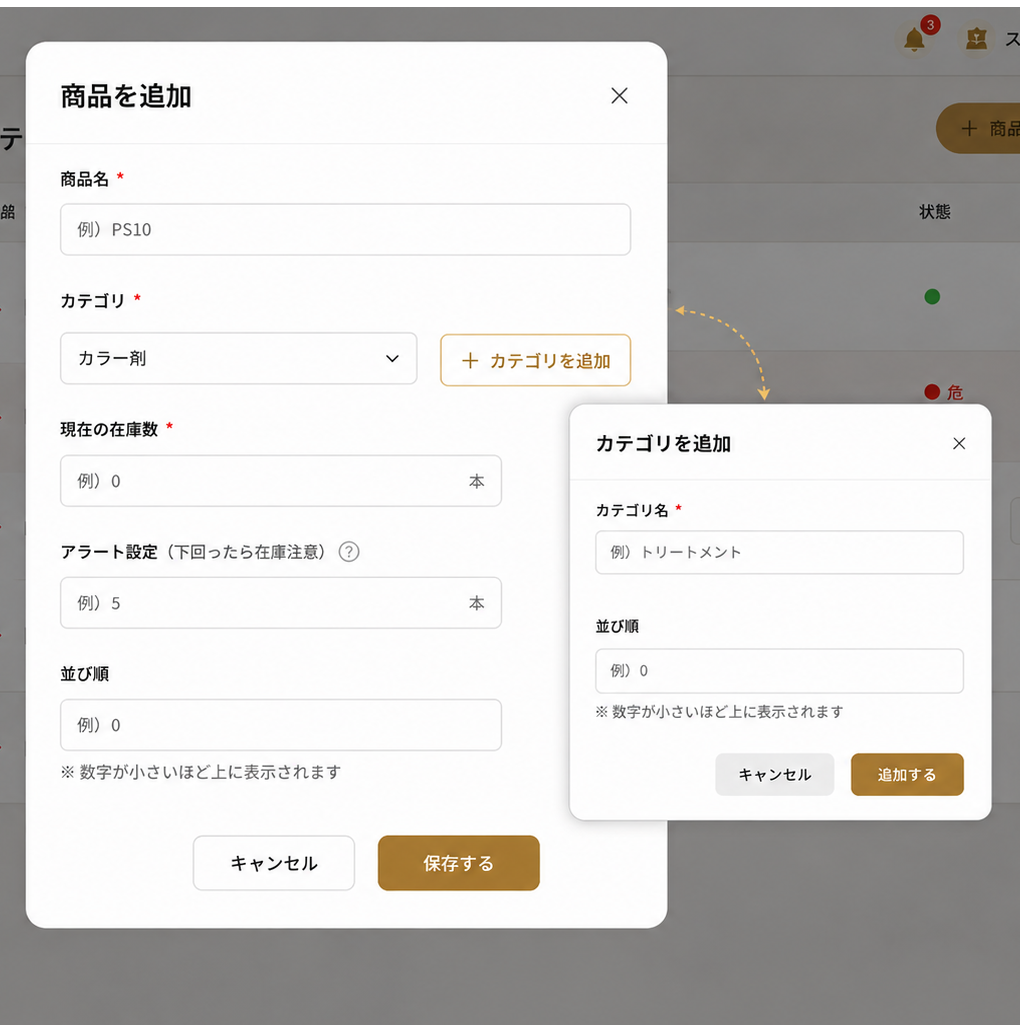
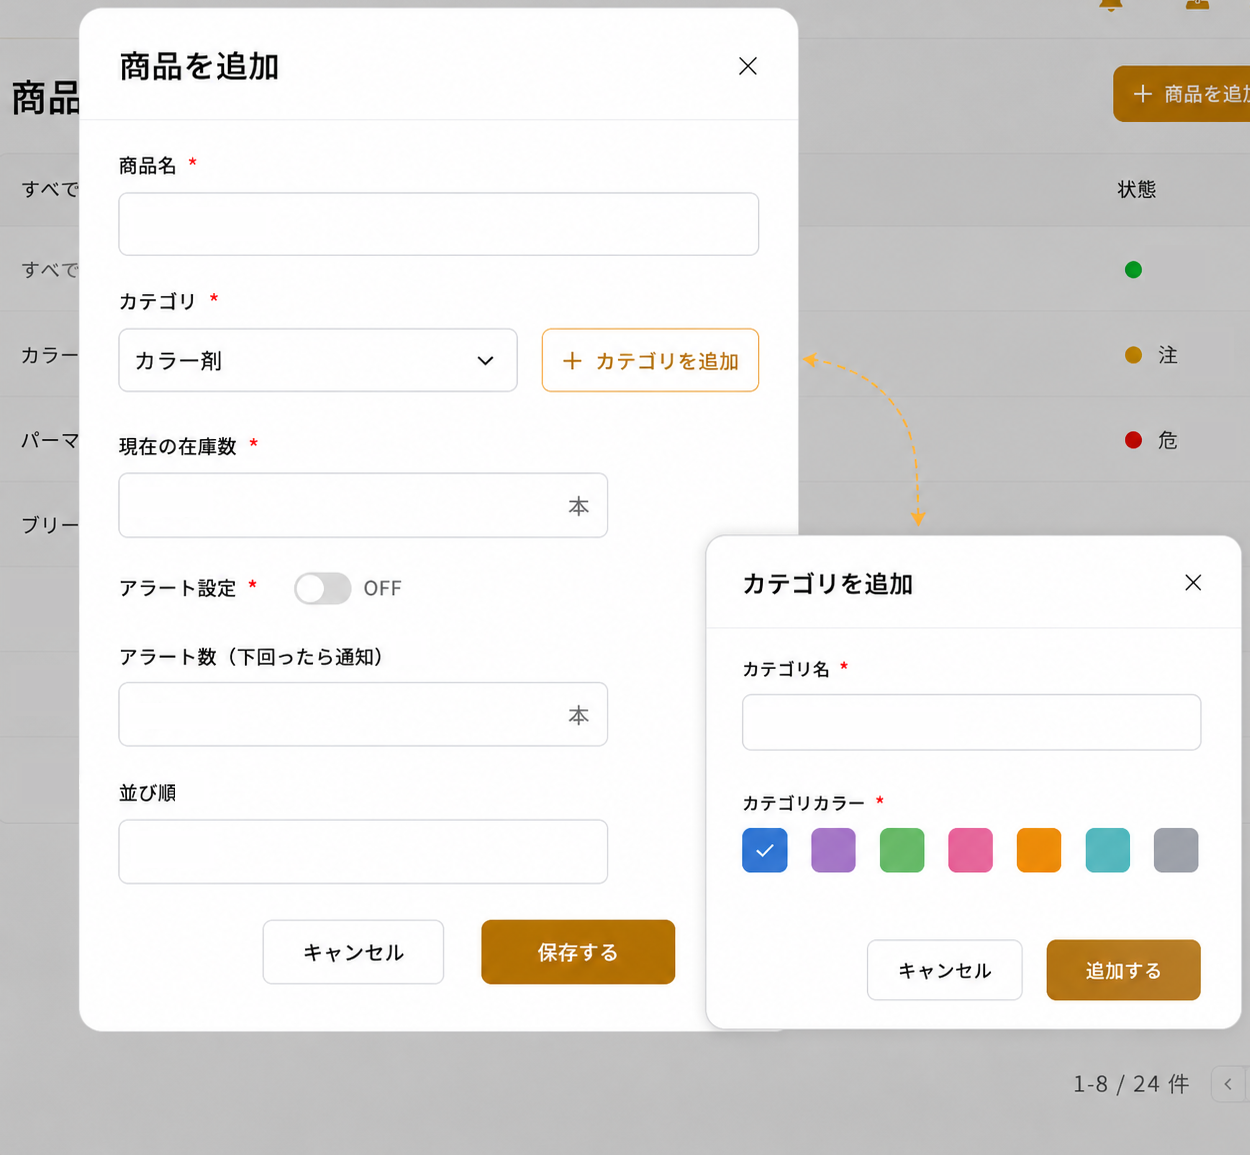
商品の並び順機能、カテゴリカラーの追加

diff --git a/frontend/src/components/AddItemModal.jsx b/frontend/src/components/AddItemModal.jsx
@@ -6,16 +6,17 @@ function AddItemModal({ onClose, onItemCreated }) {
   const [name, setName] = useState("");
   const [category, setCategory] = useState("");
   const [categories, setCategories] = useState([]);
-  const [currentStock, setCurrentStock] = useState(0);
-  const [minStock, setMinStock] = useState(0);
+  const [currentStock, setCurrentStock] = useState("");
+  const [minStock, setMinStock] = useState("");
   const [alertEnabled, setAlertEnabled] = useState(true);
   const [error, setError] = useState("");
   const [isCategoryModalOpen, setIsCategoryModalOpen] = useState(false);
+  const [sortOrder, setSortOrder] = useState("");
 
   const handleSubmit = async () => {
     setError("");
 
-    if(!name.trim()){
+    if (!name.trim()) {
       setError("商品名を入力してください");
       return;
     }
@@ -30,6 +31,7 @@ function AddItemModal({ onClose, onItemCreated }) {
         current_stock: currentStock,
         minStock,
         alertEnabled,
+        sortOrder: sortOrder,
       };
 
       await createItem(item);
@@ -59,7 +61,7 @@ function AddItemModal({ onClose, onItemCreated }) {
         </div>
         {error && <p className="form-error">{error}</p>}
         <label>
-          商品名
+          商品名<span> *</span>
           <input
             type="text"
             value={name}
@@ -67,12 +69,16 @@ function AddItemModal({ onClose, onItemCreated }) {
           />
         </label>
         <div className="category-add">
-          <label>カテゴリ</label>
+          <label>カテゴリ<span> *</span></label>
           <button type="button" onClick={() => setIsCategoryModalOpen(true)}>
             ＋追加
           </button>
         </div>
-        <select value={category} onChange={(e) => setCategory(e.target.value)}>
+        <select
+          className="category-select"
+          value={category}
+          onChange={(e) => setCategory(e.target.value)}
+        >
           <option value="">選択してください</option>
           {categories.map((category) => (
             <option key={category.id} value={category.id}>
@@ -82,9 +88,10 @@ function AddItemModal({ onClose, onItemCreated }) {
         </select>
 
         <label>
-          現在の在庫数
+          現在の在庫数<span> *</span>
           <input
             type="number"
+            min="0"
             value={currentStock}
             onChange={(e) => setCurrentStock(Number(e.target.value))}
           />
@@ -100,12 +107,24 @@ function AddItemModal({ onClose, onItemCreated }) {
         </label>
 
         <label>
-          アラート数
+          アラート数 (下回ったら通知)
           <input
             type="number"
+            min="0"
             value={minStock}
             onChange={(e) => setMinStock(Number(e.target.value))}
           />
+        </label>
+
+        <label>
+          並び順
+          <input
+            type="number"
+            min="0"
+            value={sortOrder}
+            onChange={(e) => setSortOrder(Number(e.target.value))}
+          />
+          <p>※ 数字が小さいほど上に表示されます</p>
         </label>
 
         <button className="save-button" onClick={handleSubmit}>

diff --git a/frontend/src/App.css b/frontend/src/App.css
@@ -291,7 +291,6 @@ body {
 .item-category {
   display: inline-block;
   padding: 6px 12px;
-  background: #f0ece2;
   border-radius: 8px;
   font-size: 12px;
 }
@@ -362,25 +361,25 @@ body {
 .item-delete:hover {
   background: #f9e8e5;
 }
+
 /*商品追加モーダル*/
 .item-modal-overlay {
   position: fixed;
   inset: 0;
   background: rgba(0, 0, 0, 0.45);
-
   display: flex;
   justify-content: center;
   align-items: center;
-
   z-index: 1000;
 }
 
 .item-modal {
   width: 90%;
-  max-width: 300px;
+  max-width: 500px;
+  min-height: 600px;
   background: #fffdf8;
   border-radius: 16px;
-  padding: 10px 12px;
+  padding: 24px 20px;
   box-shadow: 0 20px 60px rgba(0, 0, 0, 0.2);
   box-sizing: border-box;
 }
@@ -408,9 +407,19 @@ body {
 
 .item-modal label {
   display: block;
-  margin-bottom: 6px;
-  font-size: 10px;
+  margin-bottom: 14px;
+  font-size: 14px;
   font-weight: bold;
+}
+
+.item-modal span{
+  color: red;
+}
+.item-modal p{
+  font-size: 10px;
+}
+.category-select {
+  margin-bottom: 18px;
 }
 
 .item-modal input,
@@ -418,19 +427,19 @@ body {
   display: block;
   width: 100%;
   box-sizing: border-box;
-  margin-top: 4px;
-  padding: 6px 10px;
+  margin-top: 8px;
+  padding: 10px 10px;
   border: 1px solid #ddd6ca;
   border-radius: 10px;
   background: #fff;
-  font-size: 10px;
+  font-size: 14px;
 }
 
 .alert-setting {
   display: flex !important;
   align-items: center;
   gap: 6px;
-  margin-bottom: 8px;
+  margin-bottom: 14px;
 }
 
 .alert-setting input {
@@ -511,6 +520,26 @@ body {
   margin-bottom: 24px;
   font-size: 13px;
   font-weight: bold;
+}
+
+.category-color-list {
+  display: flex;
+  gap: 10px;
+  margin: 8px 0 20px;
+}
+
+.category-color {
+  width: 30px;
+  height: 30px;
+  padding: 0;
+  border: 2px solid transparent;
+  border-radius: 50%;
+  cursor: pointer;
+}
+
+.category-color.selected {
+  border-color: #333;
+  box-shadow: 0 0 0 2px #fff;
 }
 
 .category-modal input {

diff --git a/frontend/src/components/AddCategoryModal.jsx b/frontend/src/components/AddCategoryModal.jsx
@@ -4,14 +4,24 @@ import { createCategory } from "../api/itemApi";
 function AddCategoryModal({ onClose }) {
   const [name, setName] = useState("");
   const [error, setError] = useState("");
+  const [colorCode, setColorCode] = useState();
+
+  const colors = [
+    "rgba(108, 195, 196, 0.5)",
+    "rgba(230, 230, 14,0.5)",    ,
+    "rgba(64, 0, 239, 0.5)",
+    "rgba(29, 201, 34,0.5)",
+    "rgba(218, 133, 212,0.5)",
+    "rgba(237, 127, 18,0.5)",
+  ];
 
   const handleSubmit = async () => {
-    if(!name.trim()){
+    if (!name.trim()) {
       setError("カテゴリ名を入力してください");
       return;
     }
     try {
-      await createCategory({ name: name.trim() });
+      await createCategory({ name: name.trim(),colorCode:colorCode });
       onClose();
     } catch (error) {
       setError("同じカテゴリ名がすでに登録されています");
@@ -34,6 +44,22 @@ function AddCategoryModal({ onClose }) {
             onChange={(e) => setName(e.target.value)}
           />
         </label>
+
+        <label>カテゴリカラ―</label>
+
+        <div className="category-color-kist">
+          {colors.map((color) => (
+            <button
+              key={color}
+              type="button"
+              className={`category-color ${
+                colorCode === color ? "selected" : ""
+              }`}
+              style={{ backgroundColor: color }}
+              onClick={() => setColorCode(color)}
+            />
+          ))}
+        </div>
 
         <button className="save-button" onClick={handleSubmit}>
           追加する

diff --git a/frontend/src/components/Items.jsx b/frontend/src/components/Items.jsx
@@ -35,7 +35,12 @@ function Items({
       </td>
 
       <td>
-        <span className="item-category">{item.category?.name}</span>
+        <span
+          className="item-category"
+          style={{ backgroundColor: item.category?.colorCode }}
+        >
+          {item.category?.name}
+        </span>
       </td>
 
       <td>

diff --git a/frontend/src/App.jsx b/frontend/src/App.jsx
@@ -77,6 +77,7 @@ function App() {
       (item) => item.category.name === selectedCategory,
     );
   }
+  
   const alertItems = items.filter(
     (item) => item.current_stock <= item.minStock,
   );

diff --git a/backend/src/main/java/com/example/backend/repository/ItemRepository.java b/backend/src/main/java/com/example/backend/repository/ItemRepository.java
@@ -1,9 +1,12 @@
 package com.example.backend.repository;
 
 import com.example.backend.entity.Item;
+import java.util.List;
 import org.springframework.data.jpa.repository.JpaRepository;
 
 public interface ItemRepository extends JpaRepository<Item, Long> {
 
   boolean existsByName(String name);
+
+  List<Item> findAllByOrderBySortOrderAsc();
 }

diff --git a/backend/src/main/java/com/example/backend/service/ItemService.java b/backend/src/main/java/com/example/backend/service/ItemService.java
@@ -17,7 +17,7 @@ public class ItemService {
   private final ItemRepository itemRepository;
 
   public List<Item> findAll() {
-    return itemRepository.findAll();
+    return itemRepository.findAllByOrderBySortOrderAsc();
   }
 
   public Item createItem(Item item) {

diff --git a/backend/src/main/java/com/example/backend/entity/Category.java b/backend/src/main/java/com/example/backend/entity/Category.java
@@ -23,6 +23,4 @@ public class Category {
   private String name;
 
   private String colorCode;
-
-  private Integer sortOrder;
 }
